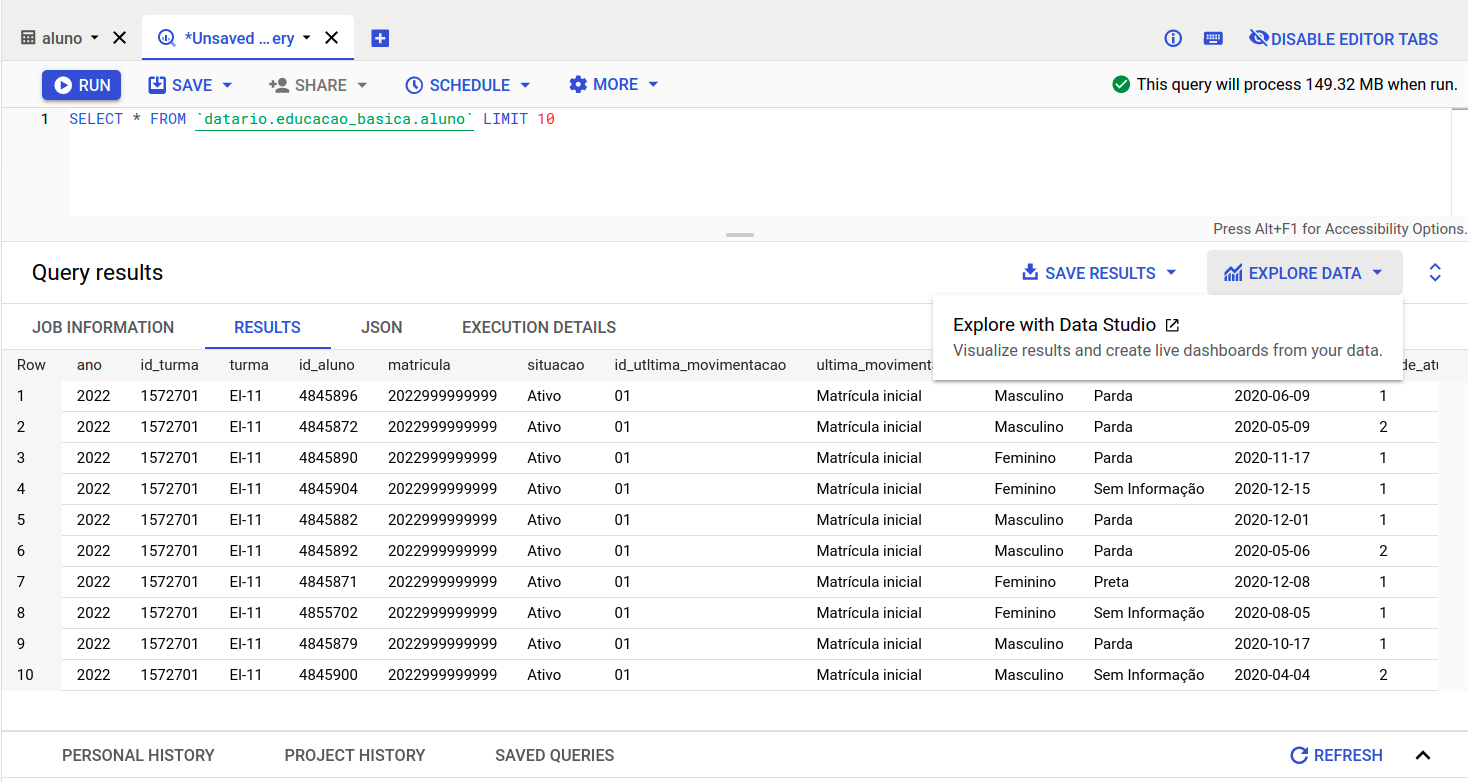
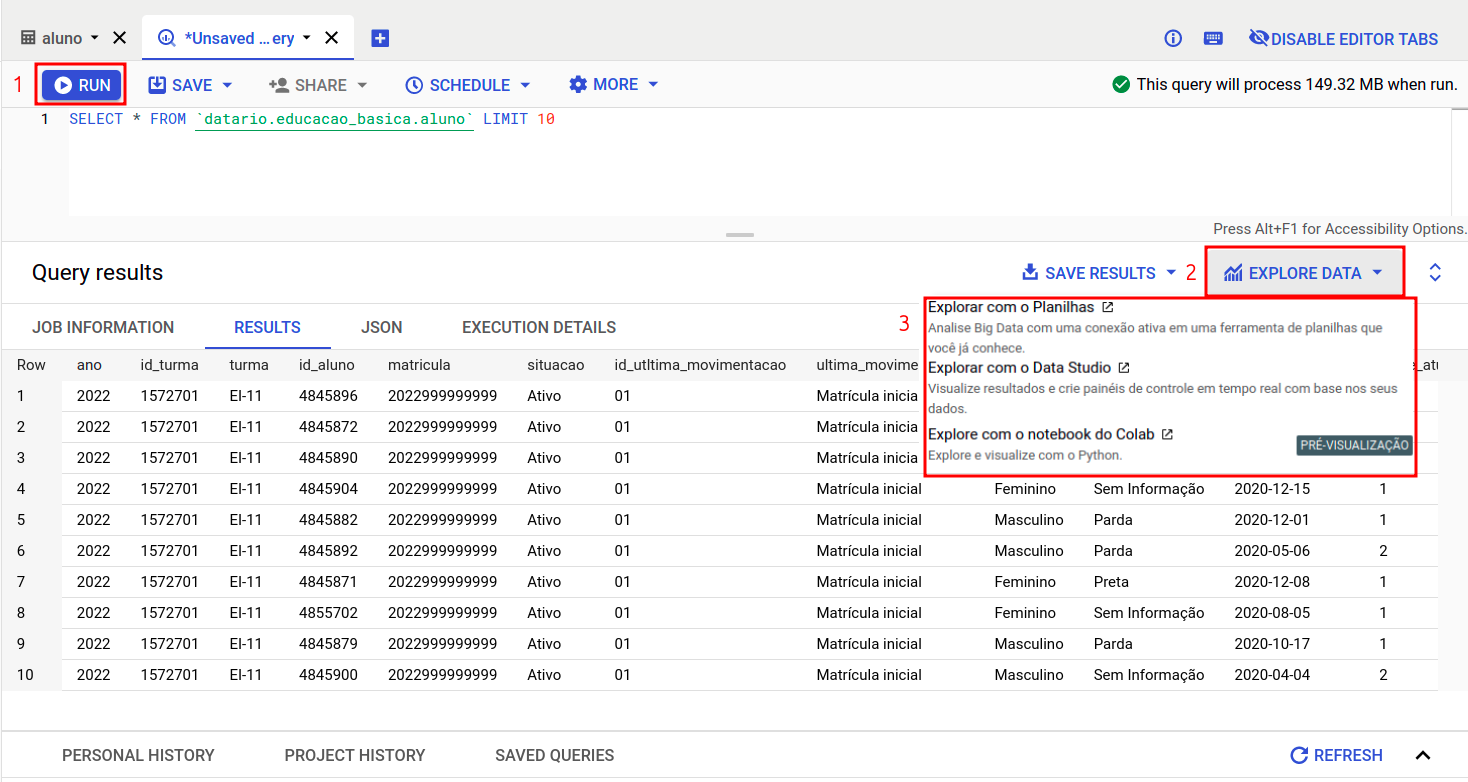
adicionando novas partes

diff --git a/docs/tutoriais/como-acessar-dados.md b/docs/tutoriais/como-acessar-dados.md
@@ -155,7 +155,7 @@ Com sua conta da GCP devidamente configurada, você pode acessar dados via BigQu
 
 - Na barra **Explorer**, clique nas três bolinhas verticais e depois em "+ Adicionar dados" para adicionar novos projetos. Para algumas pessoas o botão "+ Adicionar dados" aparerá diretamente.
 
-![Procurando projeto](../static/img/tutoriais/adicionar-dados.png)
+![Procurando projeto](../static/img/tutoriais/adicionar-dados.png){ width=90% }
 
 - Depois, clique em "Fixar um projeto por nome".
 
@@ -164,7 +164,7 @@ Com sua conta da GCP devidamente configurada, você pode acessar dados via BigQu
 - Em seguida, procure pelo projeto **datario**, que se refere aos dados disponibilizados pela equipe
   do Escritório de Dados Rio. Ao encontrar, clique em "Fixar".
 
-![Adicionando datario](../static/img/tutoriais/fixar-projeto.png)
+![Adicionando datario](../static/img/tutoriais/fixar-projeto.png){ width=30% }
 
 - Depois de alguns segundos o projeto **datario** estará aparecendo em sua aba "Explorer". Ao navegar por ele, verá algo semelhante ao seguinte:
 
@@ -186,7 +186,7 @@ Se você trabalha para a prefeitura e quer adicionar os demais projetos que tem 
     - Pode-se fazer uma query nessa tabela clicando em "Query" ou nos três pontinhos verticais e escolhendo
       "Query". Em ambas as formas, será gerada uma query básica para a tabela.
 
-    ![Query basica](../static/img/tutoriais/query-basica.png)
+    ![Query basica](../static/img/tutoriais/query-basica.png){ width=90% }
 
     - Para executar a query, basta clicar em "Run" ou pressionar Ctrl + Enter. Os resultados serão exibidos
       como na imagem acima.
@@ -195,27 +195,32 @@ Se você trabalha para a prefeitura e quer adicionar os demais projetos que tem 
 
     É possível, por exemplo:
 
-    1. Baixar ou salvar os resultados clicando em "Save results".
+    - Baixar ou salvar os resultados clicando em "Save results".
 
-    ![Salvar query](../static/img/tutoriais/salvar-query.png)
+    ![Salvar query](../static/img/tutoriais/salvar-query.png){ width=90% }
 
-    2. Salvar a query ou criar uma view com ela para utilizar depois, clicando em "Save", ao lado de "Run".
+    - Salvar a query ou criar uma view com ela para utilizar depois, clicando em "Save", ao lado de "Run".
 
-    ![Query para view](../static/img/tutoriais/query-para-view.png)
+    ![Query para view](../static/img/tutoriais/query-para-view.png){ width=90% }
 
-    3. Fazer gráficos e dashboards com os resultados, clicando em "Explore data".
+    - Criar um schedule para executar essa mesma query em intervalos de tempo definidos, clicando em "Schedule".
 
-    ![Abrir datastudio](../static/img/tutoriais/abrir-datastudio.png)
+    ![Criar schedule](../static/img/tutoriais/criar-schedule.png){ width=90% }
 
-    4. Criar um schedule para executar essa mesma query em intervalos de tempo definidos, clicando em "Schedule".
-
-    ![Criar schedule](../static/img/tutoriais/criar-schedule.png)
-
-    E é isso! Agora é hora de voar! 🚀
 
 === "Vídeo"
 
     ![type:video](https://www.youtube.com/embed/-UFJL2sO4PI)
+
+### Explorando os dados com Data Studio, Google Sheets e Colab
+
+Após rodarmos uma query no GCP também podemos explorar nossos dados utilizando outras plataformas gratuitas como o Data Studio, Google Planilhas e Colab. Para isso, basta clicar no botão "Explore Data" na parte inferior direita e escolher a melhor forma para você.
+
+Com o Data Studio você consegue criar gráficos e dashboards que atualizarão automaticamente com seus dados. Já com o Google Planilhas também é possível criar gráficos e ainda realizar análises rápidas. Para análises mais aprofundadas e complexas recomendamos o uso do Colab, mas nesse caso será necessário um conhecimento básico de Python.
+
+![Abrir datastudio](../static/img/tutoriais/abrir-datastudio.png){ width=90% }
+
+E é isso! Agora é hora de voar! 🚀
 ### Navegando pelos dados
 
 === "Texto"
@@ -223,16 +228,16 @@ Se você trabalha para a prefeitura e quer adicionar os demais projetos que tem 
     - Aqui, você pode selecionar qualquer tabela, clicar nos pontinhos verticais e "Open". Assim, serão exibidas
       as propriedades dessa tabela. Na aba "Schema", será mostrado o nome de cada coluna, seu tipo e descrição.
 
-    ![Ver tabela](../static/img/tutoriais/ver-tabela.png)
+    ![Ver tabela](../static/img/tutoriais/ver-tabela.png){ width=90% }
 
     - Já na aba "Detalhes", haverá informação sobre o tamanho da tabela, número de linhas, datas de criação e
       atualização, etc.
 
-    ![Ver tabela pt2](../static/img/tutoriais/ver-tabela-2.png)
+    ![Ver tabela pt2](../static/img/tutoriais/ver-tabela-2.png){ width=90% }
 
     - Por fim, na aba "Preview", aparecerão alguns dados contidos nessa tabela.
 
-    ![Ver tabela pt3](../static/img/tutoriais/ver-tabela-3.png)
+    ![Ver tabela pt3](../static/img/tutoriais/ver-tabela-3.png){ width=90% }
 
 === "Vídeo"
 
@@ -264,7 +269,7 @@ Então você quer acessar os dados **diretamente** via Python? A gente te dá um
     **Importante:** note que esse `billing_project_id` deve corresponder ao ID do seu projeto na GCP, NÃO
     ao nome do projeto. No caso da imagem abaixo, seria `"primeiro-projeto-350017"`
 
-    ![ID x nome do projeto](../static/img/tutoriais/id-do-projeto.png)
+    ![ID x nome do projeto](../static/img/tutoriais/id-do-projeto.png){ width=60% }
 
     Quando você executar esse snippet, será solicitada a autenticação com sua conta Google:
 
@@ -289,9 +294,42 @@ A basedosdados possui um guia excelente de como acessar dados do BigQuery via R.
 A documentação oficial da Microsoft possui um guia excelente de como acessar dados do BigQuery via PowerBI.
 Você pode acessá-lo [aqui](https://docs.microsoft.com/pt-br/power-bi/connect-data/desktop-connect-bigquery)!
 
-## Dicas para reduzir o custo de uma query no GCP
+## Acessando dados via Google Sheets/Planilha
 
-**1 - Evite `SELECT *`**
+Para importar toda uma tabela em um Google Sheets você deve, primeiramente, acessar uma planilha e clicar nas opções Data > Data connectors > Connect to BigQuery. 
+
+![Conecta BigQuery](../static/img/tutoriais/conecta-bigquery.png){ width=50% }
+
+Uma nova janela será aberta para que você escolha o projeto, o dataset e a tabela que você quer acessar.
+
+![Escolhe projeto](../static/img/tutoriais/escolhe-projeto.png){ width=30% }
+![Escolhe tabela](../static/img/tutoriais/escolhe-tabela.png){ width=30% }
+
+Feito isso, o Google Sheets irá importar toda a tabela. Tome cuidado com tabelas muito grandes! Se esse for o seu caso recomendamos importar a tabela no python utilizando a biblioteca `basedosdados` mencionada anteriormente.
+
+![Tabela importada](../static/img/tutoriais/tabela-importada.png){ width=80% }
+
+## Acessando dados via Data Studio
+
+Para importar toda uma tabela no Data Studio você deve, primeiramente, acessar o site do [Data Studio](https://datastudio.google.com) e criar um novo report. 
+
+![Abrir Data Studio](../static/img/tutoriais/abrir-datastudio2.png){ width=80% }
+
+Para conectar uma tabela do BigQuery clique no botão correspondente a ele.
+
+![Data Studio](../static/img/tutoriais/acesso-datastudio.png){ width=80% }
+
+Navegue nas opções de projeto, dataset e tabela até encontrar o dado de interesse.
+
+![Data Studio escolhe tabela](../static/img/tutoriais/acesso-datastudio-escolhe-tabela.png){ width=80% }
+
+Prontinho! Agora é só liberar seu lado analytics + criativo para começar suas análises. :stuck_out_tongue_winking_eye:
+
+![Data Studio tabela importada](../static/img/tutoriais/acesso-datastudio-dados-importados.png){ width=80% }
+
+## Dicas para reduzir o custo de uma query no GCP :exploding_head:
+
+**1 - Evite `SELECT *`** :bomb:
 
 Para contornar o uso do `SELECT *` você pode:
 
@@ -306,29 +344,32 @@ Para olhar como são os dados você pode:
 
 Clicar nos pontinhos verticais e "Open". E depois selecionar a aba "Preview" para visualizar algumas linhas dessa tabela.
 
-![Ver tabela pt3](../static/img/tutoriais/ver-tabela-3.png)
+![Ver tabela pt3](../static/img/tutoriais/ver-tabela-3.png){ width=80% }
+
 Dessa forma, você consegue visualizar dados gratuitamente e sem afetar sua cota mensal 🤩.
 
-**3 - Filtrar a partição**
+**3 - Filtrar a partição** :boom:
 
 Se a tabela for particionada, opte por filtrá-la utilizando a coluna de partição. Você pode descobrir se a tabela é particionada seguindo o mesmo passo anterior, mas selecionando a aba "Detalhes" e procurando o termo “Particionada no campo “.
 
 === "Texto"
 
-    ![Partição da tabela](../static/img/tutoriais/particao-tabela.png)
+    ![Partição da tabela](../static/img/tutoriais/particao-tabela.png){ width=80% }
 
     Como vimos na imagem acima, a tabela `datario.meio_ambiente_clima.quantidade_agua_precipitavel_satelite` é particionada pela coluna `data_particao`. Vamos ver um exemplo de como é importante filtrarmos nossas consultas considerando a coluna de partição:
 
     Suponha que queremos obter todos os valores da quantidade de água precipitável para latitudes menores que -22.0º e considerando apenas dados obtidos à 1h da manhã.
     Se adicionarmos no filtro a nossa coluna de partição, o GCP nos avisa que a query processará 83.24MB.
-    ![Partição da tabela 2](../static/img/tutoriais/particao-tabela-2.png)
+    
+    ![Partição da tabela 2](../static/img/tutoriais/particao-tabela-2.png){ width=80% }
 
     Se removermos da nossa query o filtro da partição o GCP processará 13.37GB! Bem mais do que a query anterior 🤯!
-    ![Partição da tabela 3](../static/img/tutoriais/particao-tabela-3.png)
+    ![Partição da tabela 3](../static/img/tutoriais/particao-tabela-3.png){ width=80% }
 
     Você pode estar pensando 🤔: “Claro que a query consumirá mais! Você tem um filtro a menos nessa query.”
     Para rebater essa crítica vamos comparar a query anterior com uma sem filtro nenhum:
-    ![Partição da tabela 4](../static/img/tutoriais/particao-tabela-4.png)
+
+    ![Partição da tabela 4](../static/img/tutoriais/particao-tabela-4.png){ width=80% }
 
     Nesse caso, o CGP irá processar a mesma quantidade de GB que a query em que não utilizamos a coluna de partição 🤓!
 
@@ -338,7 +379,7 @@ Se a tabela for particionada, opte por filtrá-la utilizando a coluna de partiç
 
 Então lembre-se: sempre use a coluna de partição quando sua tabela permitir 😉!
 
-**4 - JOIN**
+**4 - JOIN** :handshake:
 
 Para melhorar a eficiência dos JOIN podemos:
 
